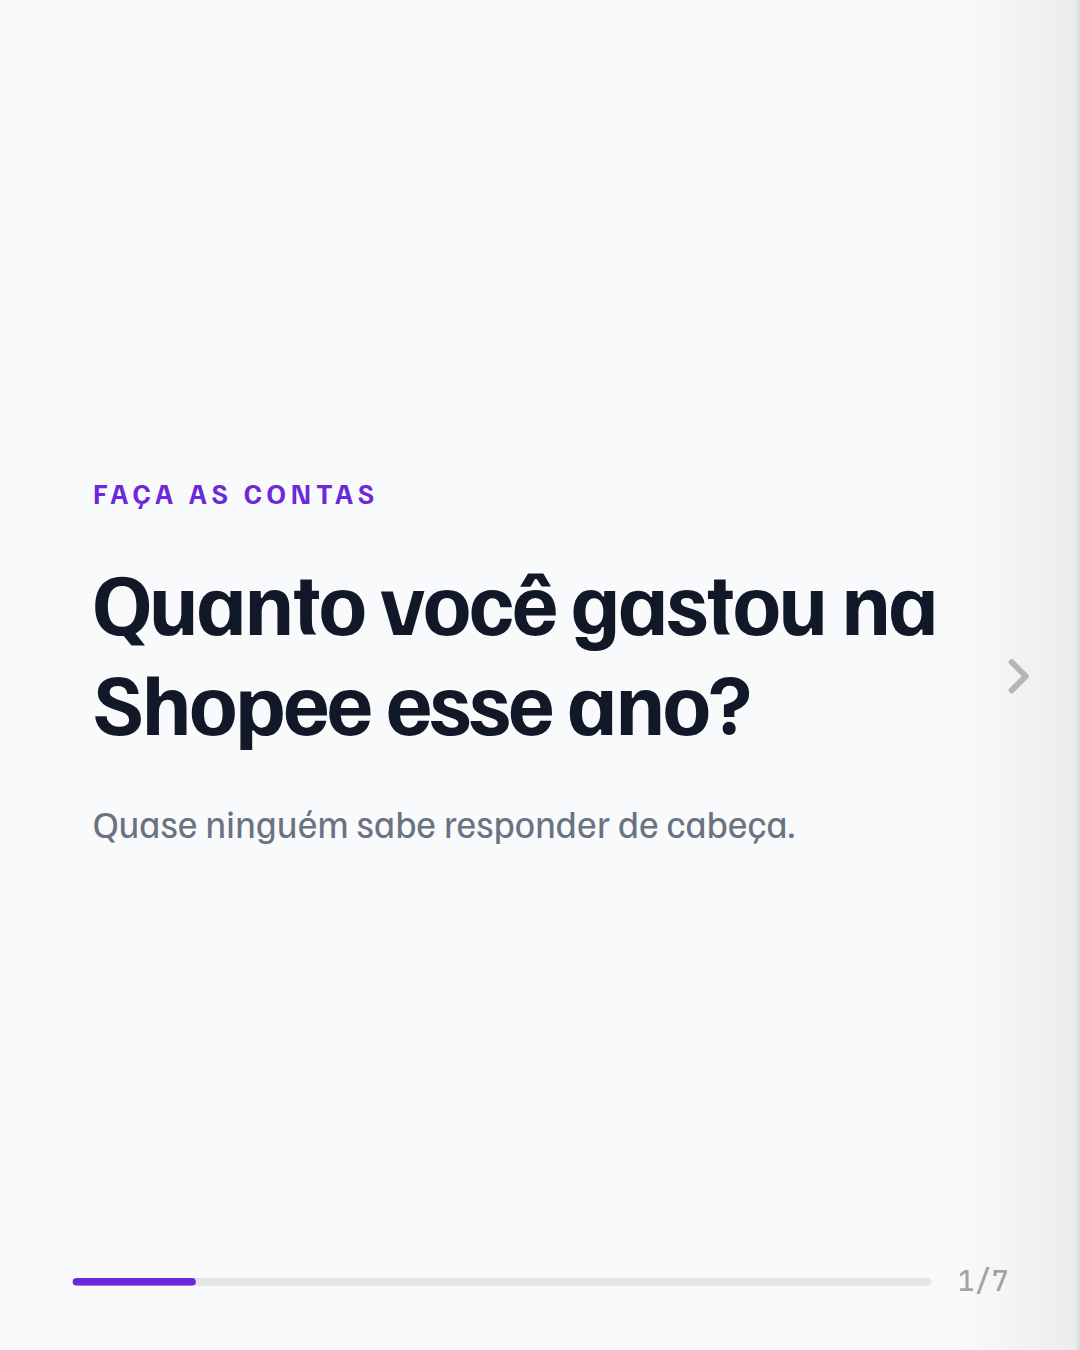
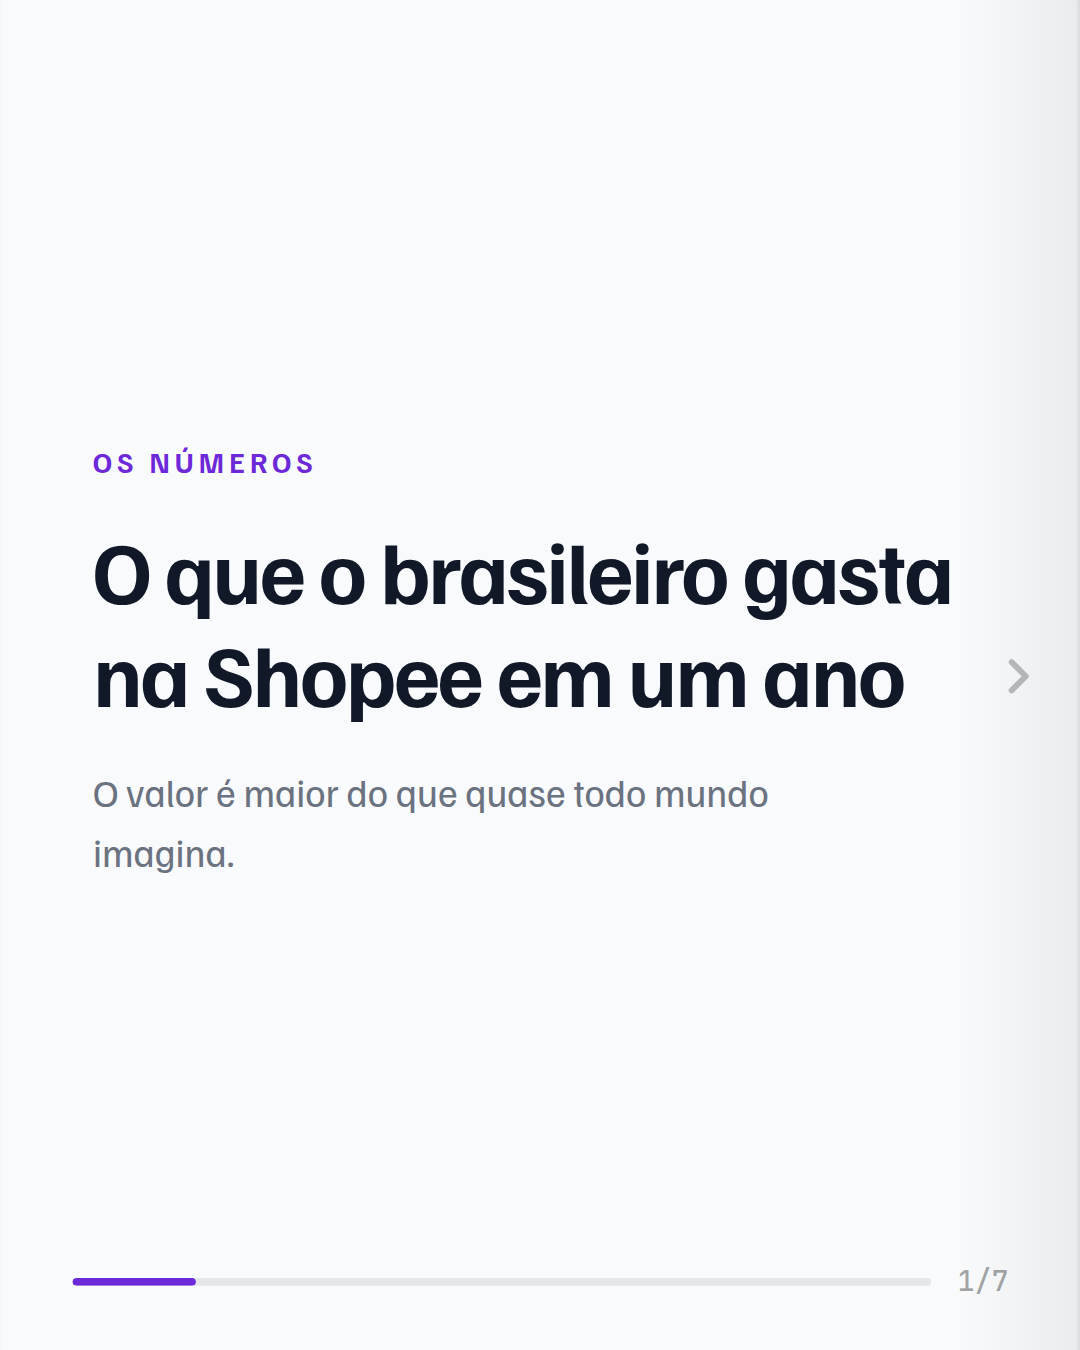
Refaz o carrossel de gasto anual como informativo, com fontes creditadas
A versão anterior mandava a pessoa abrir o app da Shopee e somar o próprio
histórico de pedidos. Não funciona: a Shopee não tem relatório de gastos, e
as únicas formas de chegar nesse número são extensão de navegador ou colar
script no console - técnico demais e, no caso do console, exatamente o
formato de golpe que se ensina a não fazer.

Agora o carrossel só apresenta o dado público e o que ele renderia: R$ 1.509
por pessoa/ano na Shopee (Klavi, 2025) e R$ 356 milhões por dia no país
(EY e Klavi, 2025). Cada slide com número de pesquisa externa credita a
fonte em corpo 9.5px no pé - novo helper fonte() na base.

Usa só dado de Shopee, não de e-commerce em geral: a cash-b devolve cashback
de compra na Shopee, então citar o gasto total em marketplaces prometeria
uma conta que a gente não entrega.

Claude-Session: https://claude.ai/code/session_017WZWLEiMQvHUst5KUYseHY

Changed region(s): [[0.0917, 0.4044, 0.8861, 0.6533], [0.0611, 0.3111, 0.3361, 0.3733]]

diff --git a/marketing/instagram/carrossel-gasto-anual/preview.html b/marketing/instagram/carrossel-gasto-anual/preview.html
@@ -59,9 +59,9 @@ body {
             <div style="position:relative; flex:1; display:flex; flex-direction:column; justify-content:center;
                         padding:44px 36px 52px;">
                 
-    <span style="display:block; font-family:Familjen; font-size:11px; font-weight:700; letter-spacing:2px; text-transform:uppercase; color:#6d28d9; margin-bottom:16px;">faça as contas</span>
-    <div style="font-family:Familjen; font-size:34px; font-weight:700; line-height:1.16; letter-spacing:-0.025em; color:#111827;">Quanto você gastou na Shopee esse ano?</div>
-    <div style="font-family:Familjen; font-size:15px; color:#6b7280; margin-top:16px; line-height:1.55; max-width:300px;">Quase ninguém sabe responder de cabeça.</div>
+    <span style="display:block; font-family:Familjen; font-size:11px; font-weight:700; letter-spacing:2px; text-transform:uppercase; color:#6d28d9; margin-bottom:16px;">os números</span>
+    <div style="font-family:Familjen; font-size:34px; font-weight:700; line-height:1.16; letter-spacing:-0.025em; color:#111827;">O que o brasileiro gasta na Shopee em um ano</div>
+    <div style="font-family:Familjen; font-size:15px; color:#6b7280; margin-top:16px; line-height:1.55; max-width:300px;">O valor é maior do que quase todo mundo imagina.</div>
     
             </div>
             
@@ -84,13 +84,16 @@ body {
     
         </div>
         
-        <div class="slide" style="background:#111827;">
+        <div class="slide" style="background:linear-gradient(165deg, #4c1d95 0%, #6d28d9 55%, #a78bfa 100%);">
             <div style="position:relative; flex:1; display:flex; flex-direction:column; justify-content:center;
                         padding:44px 36px 52px;">
                 
-    <span style="display:block; font-family:Familjen; font-size:11px; font-weight:700; letter-spacing:2px; text-transform:uppercase; color:rgba(255,255,255,0.5); margin-bottom:16px;">o dado</span>
-    <div style="font-family:Familjen; font-size:28px; font-weight:700; line-height:1.16; letter-spacing:-0.025em; color:#fff;">O brasileiro faz 18 compras por ano na Shopee.</div>
-    <div style="font-family:Familjen; font-size:14px; color:rgba(255,255,255,0.65); margin-top:16px; line-height:1.55; max-width:310px;">Com ticket médio de R$ 84 por compra. É pouco de cada vez — o que engana é a soma.</div>
+    <span style="display:block; font-family:Familjen; font-size:11px; font-weight:700; letter-spacing:2px; text-transform:uppercase; color:rgba(255,255,255,0.75); margin-bottom:16px;">por pessoa, por ano</span>
+    
+    <div style="font-family:'JB Mono'; font-size:56px; font-weight:700; line-height:1; color:#fff; letter-spacing:-0.03em;">R$ 1.509</div>
+    <div style="font-family:Familjen; font-size:14px; color:rgba(255,255,255,0.85); margin-top:12px; line-height:1.5; max-width:300px;">São 18 compras por ano, de R$ 84 em média. Pouco de cada vez — o que engana é a soma.</div>
+    
+    <div style="font-family:Familjen; font-size:9.5px; color:rgba(255,255,255,0.4); margin-top:20px; line-height:1.4; letter-spacing:0.01em;">Fonte: pesquisa Klavi (2025), com 50 mil consumidores.</div>
     
             </div>
             
@@ -113,15 +116,16 @@ body {
     
         </div>
         
-        <div class="slide" style="background:linear-gradient(165deg, #4c1d95 0%, #6d28d9 55%, #a78bfa 100%);">
+        <div class="slide" style="background:#111827;">
             <div style="position:relative; flex:1; display:flex; flex-direction:column; justify-content:center;
                         padding:44px 36px 52px;">
                 
-    <span style="display:block; font-family:Familjen; font-size:11px; font-weight:700; letter-spacing:2px; text-transform:uppercase; color:rgba(255,255,255,0.75); margin-bottom:16px;">a soma</span>
+    <span style="display:block; font-family:Familjen; font-size:11px; font-weight:700; letter-spacing:2px; text-transform:uppercase; color:rgba(255,255,255,0.5); margin-bottom:16px;">no país inteiro</span>
     
-    <div style="font-family:'JB Mono'; font-size:56px; font-weight:700; line-height:1; color:#fff; letter-spacing:-0.03em;">R$ 1.509</div>
-    <div style="font-family:Familjen; font-size:14px; color:rgba(255,255,255,0.85); margin-top:12px; line-height:1.5; max-width:300px;">É quanto a média gasta por ano na Shopee, sem perceber.</div>
+    <div style="font-family:'JB Mono'; font-size:56px; font-weight:700; line-height:1; color:#f59e0b; letter-spacing:-0.03em;">R$ 356 mi</div>
+    <div style="font-family:Familjen; font-size:14px; color:rgba(255,255,255,0.7); margin-top:12px; line-height:1.5; max-width:300px;">É quanto os brasileiros gastam POR DIA em Shopee, Shein e TikTok. R$ 130 bilhões no ano.</div>
     
+    <div style="font-family:Familjen; font-size:9.5px; color:rgba(255,255,255,0.4); margin-top:20px; line-height:1.4; letter-spacing:0.01em;">Fonte: estudo EY e Klavi (2025).</div>
     
             </div>
             
@@ -148,37 +152,9 @@ body {
             <div style="position:relative; flex:1; display:flex; flex-direction:column; justify-content:center;
                         padding:44px 36px 52px;">
                 
-    <span style="display:block; font-family:Familjen; font-size:11px; font-weight:700; letter-spacing:2px; text-transform:uppercase; color:#6d28d9; margin-bottom:16px;">descubra o seu</span>
-    <div style="font-family:Familjen; font-size:25px; font-weight:700; line-height:1.16; letter-spacing:-0.025em; color:#111827;">Como ver o seu número agora</div>
-    <div style="margin-top:14px;">
-        
-    <div style="padding:14px 0; border-bottom:1px solid #e0dcef;">
-        <div style="display:flex; align-items:center; gap:16px;">
-            <span style="font-family:'JB Mono'; font-size:24px; font-weight:700; color:#6d28d9; min-width:32px; line-height:1;">01</span>
-            <span style="font-family:Familjen; font-size:14.5px; font-weight:700; color:#111827;">Abra o app da Shopee</span>
-        </div>
-        <div style="font-family:Familjen; font-size:12.5px; color:#6b7280; margin-top:4px; margin-left:48px; line-height:1.45; max-width:280px;">No canto inferior direito, toque em “Eu”.</div>
-    </div>
-    
-        
-    <div style="padding:14px 0; border-bottom:1px solid #e0dcef;">
-        <div style="display:flex; align-items:center; gap:16px;">
-            <span style="font-family:'JB Mono'; font-size:24px; font-weight:700; color:#6d28d9; min-width:32px; line-height:1;">02</span>
-            <span style="font-family:Familjen; font-size:14.5px; font-weight:700; color:#111827;">Entre em Minhas Compras</span>
-        </div>
-        <div style="font-family:Familjen; font-size:12.5px; color:#6b7280; margin-top:4px; margin-left:48px; line-height:1.45; max-width:280px;">Ali fica o histórico completo dos seus pedidos.</div>
-    </div>
-    
-        
-    <div style="padding:14px 0; border-bottom:1px solid #e0dcef;">
-        <div style="display:flex; align-items:center; gap:16px;">
-            <span style="font-family:'JB Mono'; font-size:24px; font-weight:700; color:#6d28d9; min-width:32px; line-height:1;">03</span>
-            <span style="font-family:Familjen; font-size:14.5px; font-weight:700; color:#111827;">Role até janeiro</span>
-        </div>
-        <div style="font-family:Familjen; font-size:12.5px; color:#6b7280; margin-top:4px; margin-left:48px; line-height:1.45; max-width:280px;">E some. Prepare-se para o susto.</div>
-    </div>
-    
-    </div>
+    <span style="display:block; font-family:Familjen; font-size:11px; font-weight:700; letter-spacing:2px; text-transform:uppercase; color:#6d28d9; margin-bottom:16px;">o detalhe</span>
+    <div style="font-family:Familjen; font-size:28px; font-weight:700; line-height:1.16; letter-spacing:-0.025em; color:#111827;">Em toda essa movimentação, existe comissão de afiliado.</div>
+    <div style="font-family:Familjen; font-size:14.5px; color:#6b7280; margin-top:16px; line-height:1.55; max-width:305px;">A Shopee paga uma parte de cada venda para quem levou o cliente até o produto. É assim que canais de oferta e páginas de achadinhos se sustentam.</div>
     
             </div>
             
@@ -206,7 +182,7 @@ body {
                         padding:44px 36px 52px;">
                 
     <span style="display:block; font-family:Familjen; font-size:11px; font-weight:700; letter-spacing:2px; text-transform:uppercase; color:rgba(255,255,255,0.5); margin-bottom:16px;">a pergunta que importa</span>
-    <div style="font-family:Familjen; font-size:28px; font-weight:700; line-height:1.16; letter-spacing:-0.025em; color:#fff;">Desse dinheiro todo, quanto voltou para você?</div>
+    <div style="font-family:Familjen; font-size:28px; font-weight:700; line-height:1.16; letter-spacing:-0.025em; color:#fff;">Quanto dessa comissão volta para quem comprou?</div>
     <div style="font-family:'JB Mono'; font-size:52px; font-weight:700; color:#f59e0b; margin-top:24px; letter-spacing:-0.03em;">R$ 0,00</div>
     
             </div>
@@ -288,7 +264,7 @@ body {
             <div style="position:relative; flex:1; display:flex; flex-direction:column; justify-content:center;
                         padding:44px 36px 52px;">
                 
-    <div style="font-family:Familjen; font-size:30px; font-weight:700; line-height:1.16; letter-spacing:-0.025em; color:#fff;">O dinheiro já é gasto de qualquer jeito.</div>
+    <div style="font-family:Familjen; font-size:30px; font-weight:700; line-height:1.16; letter-spacing:-0.025em; color:#fff;">O dinheiro sai da sua conta de qualquer jeito.</div>
     <div style="font-family:Familjen; font-size:15px; color:rgba(255,255,255,0.9); margin-top:16px; line-height:1.55; max-width:300px;">A diferença é uma parte dele voltar.</div>
     
     <div style="display:flex; justify-content:center; margin-top:28px;">
@@ -324,7 +300,7 @@ body {
         <svg width="24" height="24" viewBox="0 0 24 24" fill="none"><path d="M6 4h12v17l-6-4-6 4V4z" stroke="#111827" stroke-width="1.6" stroke-linejoin="round"/></svg>
     </div>
     <div class="ig-caption">
-        <b>usecashb</b> Faça o teste: abra o app da Shopee, vá em Minhas Compras e role até janeiro. O número assusta — e nada dele voltou para você. Salve para fazer depois. 💸
+        <b>usecashb</b> R$ 1.509 por ano, por pessoa, só na Shopee — e R$ 356 milhões por dia no país inteiro. Em toda essa movimentação existe uma comissão que nunca volta para quem comprou. Salve para lembrar. 📊
         <span class="time">2 horas atrás</span>
     </div>
 </div>

diff --git a/marketing/instagram/gerar_carrossel_gasto_anual.py b/marketing/instagram/gerar_carrossel_gasto_anual.py
@@ -1,27 +1,34 @@
-"""Carrossel "Quanto você gastou na Shopee esse ano?".
+"""Carrossel "O que o brasileiro gasta na Shopee em um ano".
 
-Conteúdo de topo de funil: o gancho é um número que a pessoa não sabe de cabeça e
-consegue descobrir na hora, no próprio celular. A cash-b só aparece no fim, como
-desfecho - carrossel que começa falando da marca não alcança quem ainda não segue.
+Primeira versão pedia para a pessoa somar o próprio histórico de pedidos no app - ideia
+descartada: a Shopee não tem relatório de gastos, as únicas formas de chegar nesse
+número são extensão de navegador ou colar script no console (que, além de técnico
+demais, é exatamente o formato de golpe que se ensina a não fazer). Sem esse caminho,
+o carrossel passou a ser informativo: mostra o dado público e o que ele renderia.
 
-Números: pesquisa Klavi 2025 (50 mil consumidores) - 18 pedidos/ano na Shopee, ticket
-médio de R$ 83,88, o que dá R$ 1.509/ano. O piso de 1,6% vem de
-SHOPEE_CASHBACK_PERCENTUAL (20%) x SHOPEE_COMISSAO_VENDA_DIRETA (8%).
+Números (fontes creditadas no próprio slide):
+- 18 pedidos/ano na Shopee, ticket médio R$ 83,88 = R$ 1.509/ano - Klavi, 2025,
+  50 mil consumidores.
+- R$ 130 bilhões movimentados por Shopee, Shein e TikTok no Brasil em 2025, ou
+  R$ 356 milhões por dia - EY e Klavi, 2025.
+- Piso de 1,6%: SHOPEE_CASHBACK_PERCENTUAL (20%) x SHOPEE_COMISSAO_VENDA_DIRETA (8%).
+
+Só usa dado de Shopee, não de e-commerce em geral: a cash-b devolve cashback de compra
+na Shopee, então citar o gasto total do brasileiro em marketplaces prometeria uma
+conta que a gente não entrega.
 """
 from carrossel_base import (
     BRAND_GRADIENT,
-    BRAND_LIGHT,
     BRAND_PRIMARY,
     DARK_BG,
     HIGHLIGHT,
     LIGHT_BG,
     MUTED,
-    SUCCESS,
     Slide,
     cta_pill,
+    fonte,
     gerar,
     linha_valor,
-    numbered_step,
     numero_gigante,
     subtitulo,
     tag_label,
@@ -30,38 +37,35 @@ from carrossel_base import (
 
 SLIDES = [
     Slide(LIGHT_BG, f"""
-    {tag_label("faça as contas", BRAND_PRIMARY)}
-    {titulo("Quanto você gastou na Shopee esse ano?", 34, DARK_BG)}
-    {subtitulo("Quase ninguém sabe responder de cabeça.", MUTED, 300, 15)}
+    {tag_label("os números", BRAND_PRIMARY)}
+    {titulo("O que o brasileiro gasta na Shopee em um ano", 34, DARK_BG)}
+    {subtitulo("O valor é maior do que quase todo mundo imagina.", MUTED, 300, 15)}
     """, True),
 
-    Slide(DARK_BG, f"""
-    {tag_label("o dado", "rgba(255,255,255,0.5)")}
-    {titulo("O brasileiro faz 18 compras por ano na Shopee.", 28)}
-    {subtitulo(
-        "Com ticket médio de R$ 84 por compra. É pouco de cada vez — "
-        "o que engana é a soma.",
-        "rgba(255,255,255,0.65)", 310, 14)}
+    Slide(BRAND_GRADIENT, f"""
+    {tag_label("por pessoa, por ano", "rgba(255,255,255,0.75)")}
+    {numero_gigante("R$ 1.509", "São 18 compras por ano, de R$ 84 em média. Pouco de cada vez — o que engana é a soma.", "#fff", "rgba(255,255,255,0.85)")}
+    {fonte("Fonte: pesquisa Klavi (2025), com 50 mil consumidores.", escuro=True)}
     """, False),
 
-    Slide(BRAND_GRADIENT, f"""
-    {tag_label("a soma", "rgba(255,255,255,0.75)")}
-    {numero_gigante("R$ 1.509", "É quanto a média gasta por ano na Shopee, sem perceber.", "#fff", "rgba(255,255,255,0.85)")}
+    Slide(DARK_BG, f"""
+    {tag_label("no país inteiro", "rgba(255,255,255,0.5)")}
+    {numero_gigante("R$ 356 mi", "É quanto os brasileiros gastam POR DIA em Shopee, Shein e TikTok. R$ 130 bilhões no ano.", HIGHLIGHT, "rgba(255,255,255,0.7)")}
+    {fonte("Fonte: estudo EY e Klavi (2025).", escuro=True)}
     """, False),
 
     Slide(LIGHT_BG, f"""
-    {tag_label("descubra o seu", BRAND_PRIMARY)}
-    {titulo("Como ver o seu número agora", 25, DARK_BG)}
-    <div style="margin-top:14px;">
-        {numbered_step("01", "Abra o app da Shopee", "No canto inferior direito, toque em “Eu”.")}
-        {numbered_step("02", "Entre em Minhas Compras", "Ali fica o histórico completo dos seus pedidos.")}
-        {numbered_step("03", "Role até janeiro", "E some. Prepare-se para o susto.")}
-    </div>
+    {tag_label("o detalhe", BRAND_PRIMARY)}
+    {titulo("Em toda essa movimentação, existe comissão de afiliado.", 28, DARK_BG)}
+    {subtitulo(
+        "A Shopee paga uma parte de cada venda para quem levou o cliente até o "
+        "produto. É assim que canais de oferta e páginas de achadinhos se sustentam.",
+        MUTED, 305, 14.5)}
     """, True),
 
     Slide(DARK_BG, f"""
     {tag_label("a pergunta que importa", "rgba(255,255,255,0.5)")}
-    {titulo("Desse dinheiro todo, quanto voltou para você?", 28)}
+    {titulo("Quanto dessa comissão volta para quem comprou?", 28)}
     <div style="font-family:'JB Mono'; font-size:52px; font-weight:700; color:{HIGHLIGHT}; margin-top:24px; letter-spacing:-0.03em;">R$ 0,00</div>
     """, False),
 
@@ -79,15 +83,16 @@ SLIDES = [
     """, True),
 
     Slide(BRAND_GRADIENT, f"""
-    {titulo("O dinheiro já é gasto de qualquer jeito.", 30)}
+    {titulo("O dinheiro sai da sua conta de qualquer jeito.", 30)}
     {subtitulo("A diferença é uma parte dele voltar.", "rgba(255,255,255,0.9)", 300, 15)}
     {cta_pill()}
     """, False, seta=False),
 ]
 
 LEGENDA = (
-    "Faça o teste: abra o app da Shopee, vá em Minhas Compras e role até janeiro. "
-    "O número assusta — e nada dele voltou para você. Salve para fazer depois. 💸"
+    "R$ 1.509 por ano, por pessoa, só na Shopee — e R$ 356 milhões por dia no país "
+    "inteiro. Em toda essa movimentação existe uma comissão que nunca volta para "
+    "quem comprou. Salve para lembrar. 📊"
 )
 
 if __name__ == "__main__":

diff --git a/marketing/instagram/carrossel_base.py b/marketing/instagram/carrossel_base.py
@@ -127,6 +127,17 @@ def numero_gigante(valor, legenda, cor=HIGHLIGHT, cor_legenda="rgba(255,255,255,
     """
 
 
+def fonte(texto, escuro=False):
+    """Crédito da fonte, em corpo bem pequeno no pé do slide. Todo slide que mostra
+    número de pesquisa externa leva um - dado sem origem é o tipo de coisa que
+    derruba a confiança justamente em quem lê com atenção."""
+    cor = "rgba(255,255,255,0.4)" if escuro else "rgba(17,24,39,0.35)"
+    return (
+        f'<div style="font-family:Familjen; font-size:9.5px; color:{cor}; margin-top:20px; '
+        f'line-height:1.4; letter-spacing:0.01em;">{texto}</div>'
+    )
+
+
 def pill(texto, cor_texto, cor_fundo):
     return (
         f'<span style="font-family:Familjen; font-size:11px; font-weight:600; padding:6px 14px; '
